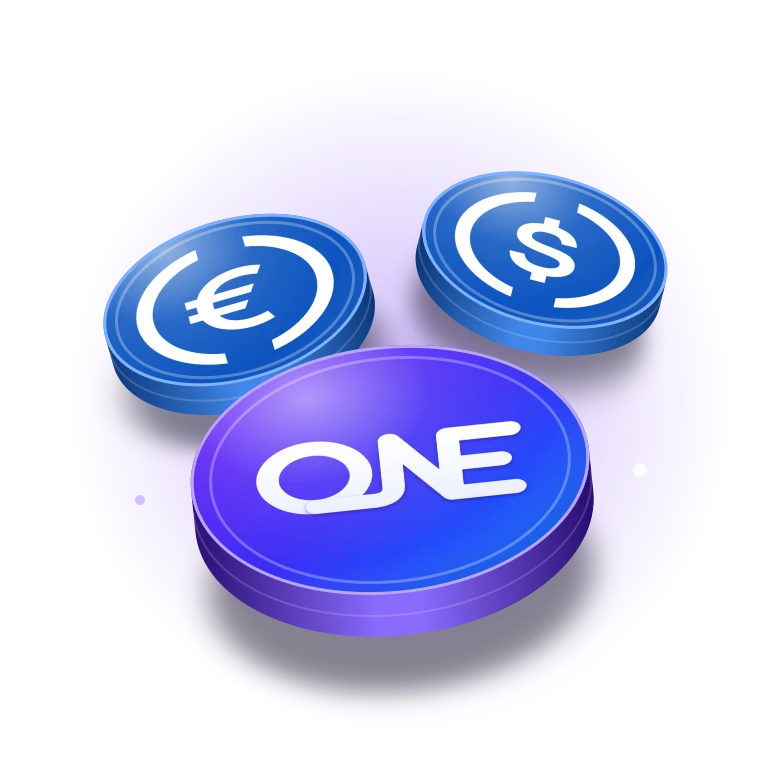
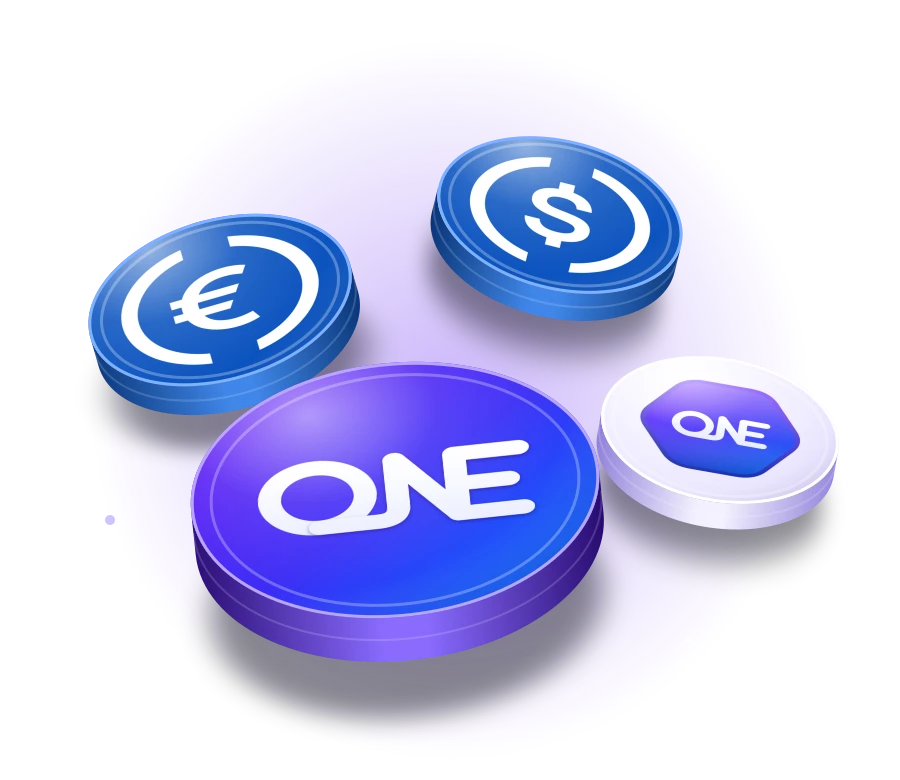
feat: bigger dashboard coins as an overlay inside the card, plus a ONE Points coin

diff --git a/apps/web/components/dashboard/home/dashboard-home.css b/apps/web/components/dashboard/home/dashboard-home.css
@@ -100,25 +100,46 @@
   mask-image: linear-gradient(180deg, black, transparent 75%);
 }
 
-/* The 3D coins: on the right, behind the balance, clear of the eye button
-   above and the actions below. */
+/* The 3D coins: an overlay inside the card, on the right, over the
+   background and clear of the eye button above and the actions below.
+   Clicks pass through to whatever is underneath. */
 .dh-card-art {
   position: absolute;
-  z-index: -1;
-  top: 2.4rem;
-  right: -0.9rem;
-  width: clamp(8rem, 36%, 12.5rem);
+  z-index: 1;
+  top: 3.5rem;
+  right: 0.6rem;
+  width: clamp(9.5rem, 46%, 17rem);
   height: auto;
+  /* Never down into the actions row, however short the card. */
+  max-height: calc(100% - 9.75rem);
+  object-fit: contain;
+  object-position: right top;
   pointer-events: none;
   user-select: none;
   filter: drop-shadow(0 18px 28px rgb(10 4 30 / 0.55));
 }
 
-@media (min-width: 640px) {
-  .dh-card-art {
-    top: 1.6rem;
-    right: 0.4rem;
+/* Room for the coins beside the balance, once there's width for both. */
+@media (min-width: 520px) {
+  .dh-card .dh-wheel,
+  .dh-card .dh-amount {
+    padding-right: min(44%, 16rem);
   }
+}
+
+/* On narrow phones a long balance can reach the coins: keep it legible. */
+.dh-card .dh-wheel,
+.dh-card .dh-amount {
+  position: relative;
+  z-index: 2;
+  text-shadow: 0 2px 14px rgb(13 6 28 / 0.85);
+}
+
+.dh-card .dh-card-top,
+.dh-card .dh-change,
+.dh-card .dh-actions {
+  position: relative;
+  z-index: 2;
 }
 
 .dh-card-top {

diff --git a/apps/web/components/dashboard/home/dashboard-home.tsx b/apps/web/components/dashboard/home/dashboard-home.tsx
@@ -120,7 +120,7 @@ export function DashboardHome({
       <section aria-label="Balance" className="dh-card">
         <span aria-hidden className="dh-card-glow" />
         <span aria-hidden className="dh-card-sheen" />
-        {/* SaphraONE, USDC and EURC coins in 3D (public/brand/dashboard-coins.webp). */}
+        {/* SaphraONE, ONE Points, USDC and EURC coins in 3D (public/brand/dashboard-coins.webp). */}
         {/* eslint-disable-next-line @next/next/no-img-element */}
         <img
           alt=""
@@ -128,9 +128,9 @@ export function DashboardHome({
           className="dh-card-art"
           decoding="async"
           draggable={false}
-          height={760}
+          height={780}
           src="/brand/dashboard-coins.webp"
-          width={760}
+          width={900}
         />
         <div className="dh-card-top">
           <span className="dh-card-label">
